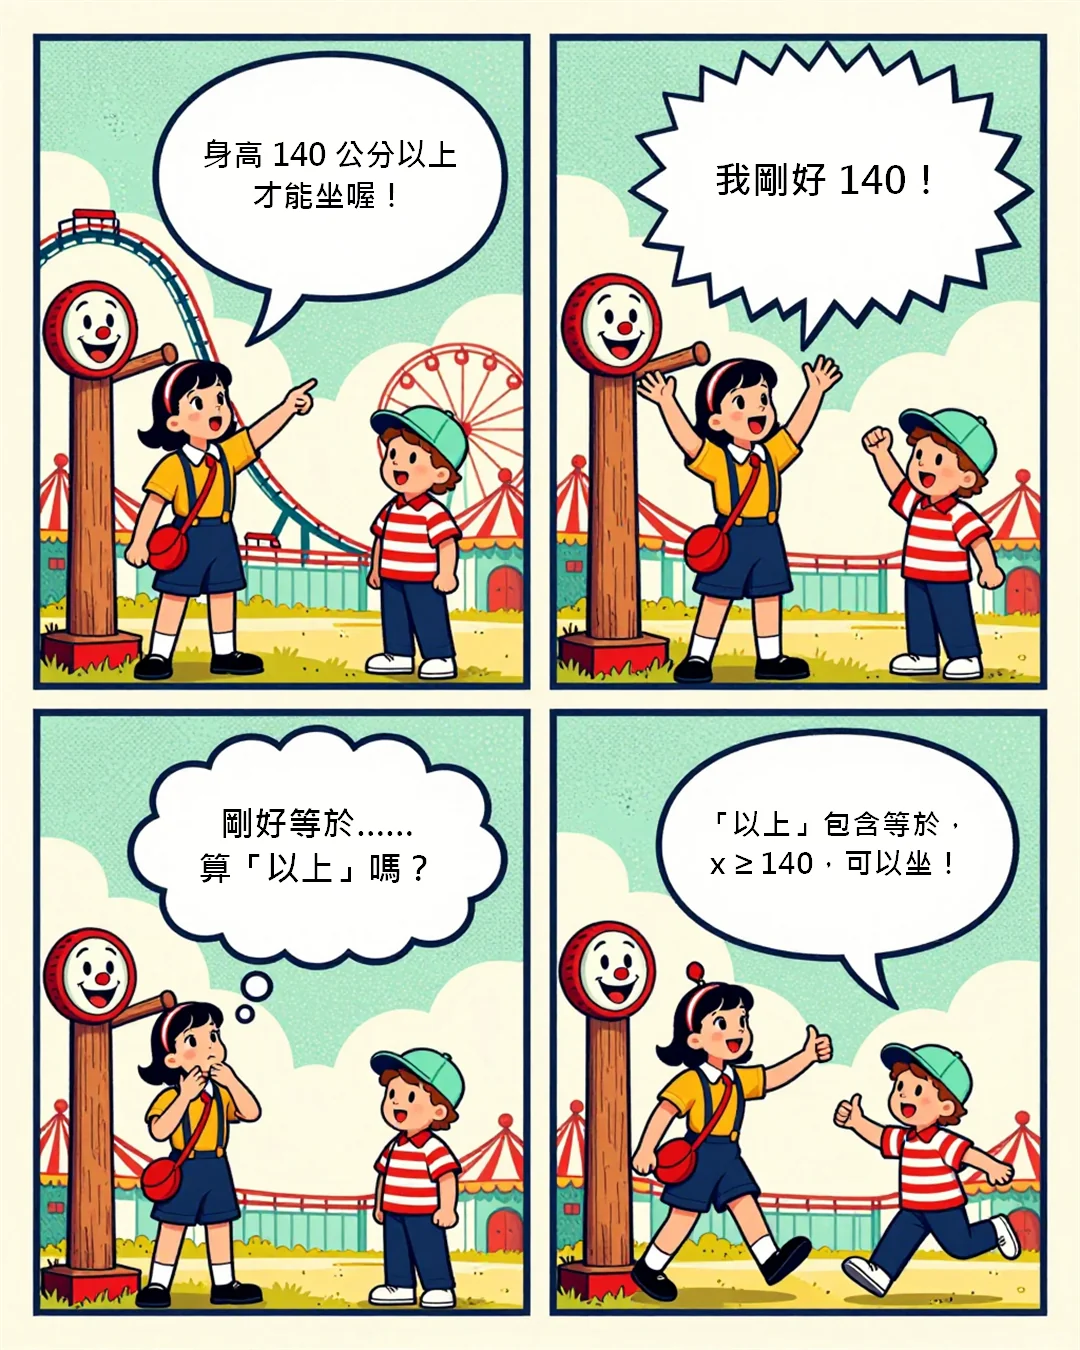
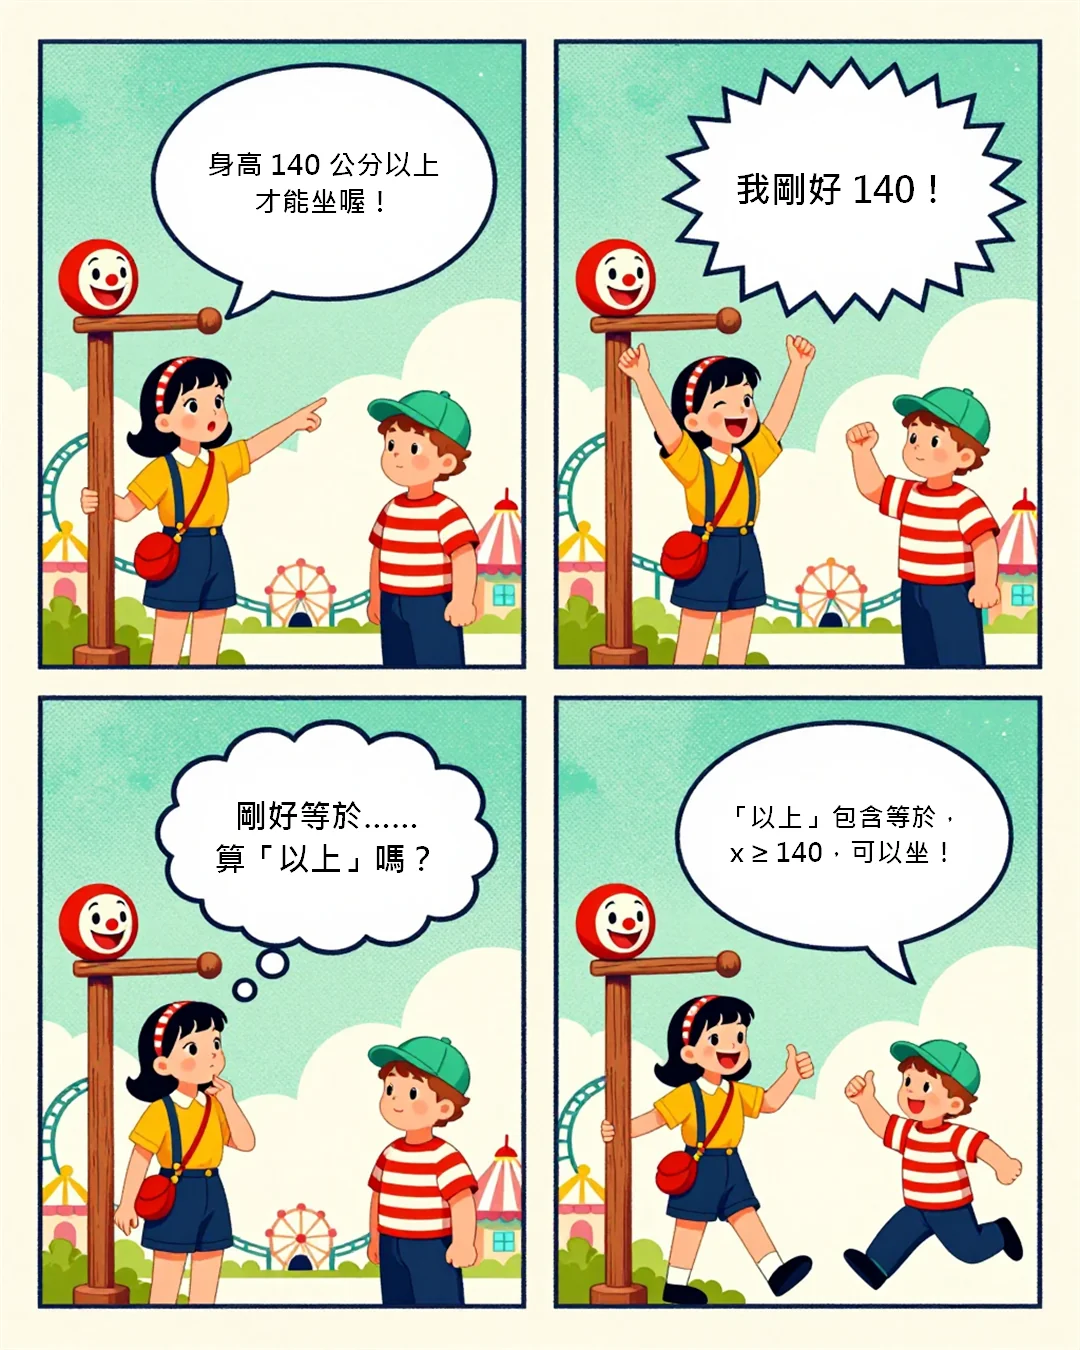
fix: 2-4-1 修正漫畫與兩張插圖的畫面細節
- 暖身漫畫重生：第 4 格的小丑立牌原本少了橫桿，與前三格不一致；新版四格立牌完全相同，第 2 格頭頂更貼近橫桿
- 爆米花插圖改成打開零錢包，取代不自然的手捏硬幣
- 套圈圈插圖的圈改成有厚度的手掌大小，取代平面的圓線與過大的游泳圈
- 三張圖的 alt 依新畫面改寫，導言配合漫畫調整一句
- agents.md：新增「漫畫道具外形要逐格比對」與三則 Z-Image 提示規則（同一道具只寫一次、尺寸用身體部位定、剛好碰到的高度綁在角色身上），擴充量泡的白色門檻

diff --git a/materials/2-4-1/index.html b/materials/2-4-1/index.html
@@ -65,10 +65,10 @@
         </h2>
         <div style="display: flex; flex-direction: column; align-items: center; gap: 1.5rem;">
           <p style="color: #cbd5e1; font-size: 1.05rem; line-height: 1.6; text-align: center; max-width: 800px; margin: 0 auto;">
-            雲霄飛車門口的小丑立牌規定：<strong style="color:#fda4af">身高 \(140\) 公分以上才能搭乘</strong>。小晴走到立牌旁一站，頭頂剛好和小丑伸出的橫桿一樣高——不多不少，<strong style="color:#fda4af">剛好 \(140\)</strong>。她高興地歡呼，下一秒卻愣住了：「剛好等於，到底算不算『以上』？」旁邊的阿哲倒是很有把握。這一節的第一件事，就是替這種「剛好卡在界線上」的情形立下規則。
+            雲霄飛車門口的小丑立牌規定：<strong style="color:#fda4af">身高 \(140\) 公分以上才能搭乘</strong>。小晴走到立牌旁一站，頭頂剛好卡在小丑伸出的橫桿正下方——不多不少，<strong style="color:#fda4af">剛好 \(140\)</strong>。她高興地歡呼，下一秒卻愣住了：「剛好等於，到底算不算『以上』？」旁邊的阿哲倒是很有把握。這一節的第一件事，就是替這種「剛好卡在界線上」的情形立下規則。
           </p>
           <div class="illustration-container" style="max-width: 600px; width: 100%; border: 1px solid rgba(255,255,255,0.08); box-shadow: 0 8px 32px rgba(0,0,0,0.4); border-radius: 20px; overflow: hidden; background: rgba(15, 23, 42, 0.4);">
-            <img src="motivation_comic.webp" alt="復古遊樂園海報風四格漫畫，網版印刷質感，四格都是同一個雲霄飛車入口：入口旁立著一根木頭柱子，柱子頂端是圓形的笑臉小丑頭，柱子上伸出一根短短的木頭橫桿，背景有雲霄飛車軌道、摩天輪與紅白條紋帳篷。黑色齊肩短髮、戴紅白條紋髮箍、穿芥末黃上衣和深藍吊帶短褲、斜背紅色圓形零錢包的少女站在立牌旁，棕色短捲髮、戴薄荷綠棒球帽、穿紅白橫條紋上衣和深藍長褲的少年站在右邊。第一格，少女一手指著遠方，對白：「身高 140 公分以上才能坐喔！」第二格，少女站在立牌旁，頭頂和橫桿一樣高，高舉雙手大喊：「我剛好 140！」第三格，少女摸著下巴一臉疑惑，心想：「剛好等於……算『以上』嗎？」第四格，少女笑著比讚往前走，少年也比讚跑向入口，說：「『以上』包含等於，x ≥ 140，可以坐！」" style="width: 100%; height: auto; display: block; transition: transform 0.3s;" class="comic-img">
+            <img src="motivation_comic.webp" alt="復古遊樂園海報風四格漫畫，網版印刷質感，四格都是同一個遊樂園入口，天空是帶網點的薄荷綠：畫面左邊立著一根木頭柱子，柱子頂端是圓形的紅色笑臉小丑頭，小丑頭正下方伸出一根往右的短木頭橫桿，末端是一顆木頭圓球，四格的立牌完全相同，背景有雲霄飛車軌道、摩天輪與帳篷。黑色齊肩短髮、戴紅白條紋髮箍、穿芥末黃上衣和深藍吊帶短褲、斜背紅色圓形零錢包的少女站在柱子旁，棕色短捲髮、戴薄荷綠棒球帽、穿紅白橫條紋上衣和深藍長褲的少年站在右邊。第一格，少女一手扶著柱子、一手指著遠方，對白：「身高 140 公分以上才能坐喔！」第二格，少女背貼著柱子站在橫桿正下方，高舉雙拳大喊：「我剛好 140！」少年也舉起拳頭替她加油。第三格，少女摸著下巴一臉疑惑，心想：「剛好等於……算『以上』嗎？」第四格，少女一手扶著柱子、笑著比讚往前走，少年也比讚跑向右邊，說：「『以上』包含等於，x ≥ 140，可以坐！」" style="width: 100%; height: auto; display: block; transition: transform 0.3s;" class="comic-img">
           </div>
         </div>
       </section>
@@ -467,7 +467,7 @@
             </div>
 
             <div class="illustration-container">
-              <img src="ineq_popcorn.webp" alt="復古遊樂園海報風插圖，網版印刷質感：黑色齊肩短髮、戴紅白條紋髮箍、穿芥末黃上衣和深藍吊帶短褲、斜背紅色圓形零錢包的少女站在紅白條紋的爆米花推車旁，低頭看著掌心裡的幾枚硬幣，一臉為難；棕色短捲髮、戴薄荷綠棒球帽、穿紅白橫條紋上衣和深藍長褲的少年站在右邊，雙手捧著一個裝滿爆米花的紅白條紋紙筒。背景有摩天輪和旋轉木馬。" class="illustration" loading="lazy">
+              <img src="ineq_popcorn.webp" alt="復古遊樂園海報風插圖，網版印刷質感：黑色齊肩短髮、戴紅白條紋髮箍、穿芥末黃上衣和深藍吊帶短褲、斜背紅色圓形零錢包的少女站在紅白條紋的爆米花推車旁，把零錢包拉到胸前，雙手正在打開扣環，皺著眉一臉為難；棕色短捲髮、戴薄荷綠棒球帽、穿紅白橫條紋上衣和深藍長褲的少年站在右邊，雙手捧著一個裝滿爆米花的紅白條紋紙筒，轉頭看著她。背景有摩天輪和紅白條紋帳篷。" class="illustration" loading="lazy">
             </div>
           </div>
 
@@ -723,7 +723,7 @@
             </div>
 
             <div class="illustration-container">
-              <img src="ineq_rings.webp" alt="復古遊樂園海報風插圖，網版印刷質感：套圈圈遊戲攤的木頭檯面上，五個綠色玻璃瓶排成一列。黑色齊肩短髮、戴紅白條紋髮箍、穿芥末黃上衣和深藍吊帶短褲、斜背紅色圓形零錢包的少女舉起手，正要丟出一個紅色的圈；棕色短捲髮、戴薄荷綠棒球帽、穿紅白橫條紋上衣和深藍長褲的少年站在右邊，手裡拿著兩個薄荷綠色的圈。背景有摩天輪、旋轉木馬和紅白條紋帳篷。" class="illustration" loading="lazy">
+              <img src="ineq_rings.webp" alt="復古遊樂園海報風插圖，網版印刷質感：套圈圈遊戲攤前，木頭檯面上排著五個綠色玻璃瓶。黑色齊肩短髮、戴紅白條紋髮箍、穿芥末黃上衣和深藍吊帶短褲、斜背紅色圓形零錢包的少女，用手指捏著一個手掌大小的紅色塑膠圈舉在臉旁，準備丟出去；棕色短捲髮、反戴薄荷綠棒球帽、穿紅白橫條紋上衣和深藍長褲的少年站在右邊，一手拿著一個薄荷綠色的小塑膠圈端詳，另一手托著兩個疊在一起的綠色小圈。背景有摩天輪、旋轉木馬和紅白條紋帳篷。" class="illustration" loading="lazy">
             </div>
           </div>
 

diff --git a/agents.md b/agents.md
@@ -61,7 +61,7 @@
 
 - [x] 階段三十二：`2-3-2` 的 10 張插圖與暖身漫畫改用 16GB 桌機的 **Z-Image Turbo 完整版（bf16）** 重生，畫面設計沿用上一輪（上一輪是 8GB 筆電的 int8 量化版）。3 輪共 76 張候選；卡最久的兩張是 `prop_pour`（前兩輪 8 張都把倒漆的人畫成少年，改寫成「畫面左半邊／右半邊」才對）與 `prop_loop`（改寫成「兩段直線接兩個半圓」才畫出完整橢圓軌道）。7 段 alt 依新畫面改寫並從瀏覽器讀回核對。提示詞與每輪 seed 收在 `comfyui/2-3-2/`（不進 repo）
 
-- [x] 階段三十三：`2-4-1`「認識一元一次不等式」建置完成（第二冊第 4 章開篇，畫風換成**復古遊樂園海報**——模型工坊已連用兩節）。依〈開發約束 26〉從康軒 1 下 PDF 抽骨架（2 個主題、5 個例題、1 個 Key point、1 張習慣用語對照表、5 題自我檢核、5 大題自我評量＋挑錯題、2 題會考）推導出 **8 個重點**——「\(\ge\)、\(\le\) 的意義」與「一元一次不等式的定義」分兩格（一個判斷真假、一個分類，學生分別出錯）；「範圍內的整數解」課本沒有例題、只佔自我檢核一題，併進兩個不等號的圖示，**留給 4-2 獨立成格**。畫風依〈開發約束 32〉數情境詞：買 11、票 11（4-2 更是買 84、票 32），主軸「買票與預算」，**4-1、4-2 兩節共用**同一組角色（小晴、阿哲）。8 互動、16 題，正解 **A4 B4 C4 D4**。驗收：**20,699 項**邏輯檢查（每個狀態獨立重算）零異常；414px 與 1280px 兩檔靜態內容加 128 個極端狀態，四類容器零溢出；撞題掃描只抓到一處脈絡不相干的 125（改成 132）。生圖走本機 Z-Image Turbo，插圖 8 張、漫畫 1 張：「頭頂剛好碰到橫桿」兩輪才勉強過（仍隔約 7px，alt 不宣稱碰到），「頭頂夾在兩根橫桿之間」兩輪 10 張全失敗，依〈開發約束 35〉退回純情境圖。提示詞、seed、API 工作流程與送件腳本收在 `comfyui/2-4-1/`
+- [x] 階段三十三：`2-4-1`「認識一元一次不等式」建置完成（第二冊第 4 章開篇，畫風換成**復古遊樂園海報**——模型工坊已連用兩節）。依〈開發約束 26〉從康軒 1 下 PDF 抽骨架（2 個主題、5 個例題、1 個 Key point、1 張習慣用語對照表、5 題自我檢核、5 大題自我評量＋挑錯題、2 題會考）推導出 **8 個重點**——「\(\ge\)、\(\le\) 的意義」與「一元一次不等式的定義」分兩格（一個判斷真假、一個分類，學生分別出錯）；「範圍內的整數解」課本沒有例題、只佔自我檢核一題，併進兩個不等號的圖示，**留給 4-2 獨立成格**。畫風依〈開發約束 32〉數情境詞：買 11、票 11（4-2 更是買 84、票 32），主軸「買票與預算」，**4-1、4-2 兩節共用**同一組角色（小晴、阿哲）。8 互動、16 題，正解 **A4 B4 C4 D4**。驗收：**20,699 項**邏輯檢查（每個狀態獨立重算）零異常；414px 與 1280px 兩檔靜態內容加 128 個極端狀態，四類容器零溢出；撞題掃描只抓到一處脈絡不相干的 125（改成 132）。生圖走本機 Z-Image Turbo，插圖 8 張、漫畫 1 張：「頭頂剛好碰到橫桿」兩輪才勉強過（仍隔約 7px，alt 不宣稱碰到），「頭頂夾在兩根橫桿之間」兩輪 10 張全失敗，依〈開發約束 35〉退回純情境圖。提示詞、seed、API 工作流程與送件腳本收在 `comfyui/2-4-1/`。**同日依使用者回饋修三處**：暖身漫畫第 4 格的小丑立牌少了橫桿（整張重生，四格立牌一致）、爆米花插圖的手捏硬幣不自然（改成打開零錢包）、套圈圈的圈不立體又被畫得比瓶子大（改成手掌大小的厚圈）
 
 > 目前課程進度：58 節中 `1-1-1`、`1-1-2`、`1-1-3`、`1-1-4`、`1-2-1`、`1-2-2`、`1-2-3`、`1-2-4`、`1-3-1`、`1-3-2`、`1-3-3`（第一冊全冊）、`2-1-1`、`2-1-2`、`2-1-3`（第二冊第 1 章全章）、`2-2-1`、`2-2-2`（第二冊第 2 章全章）、`2-3-1`、`2-3-2`（第二冊第 3 章全章）、`2-4-1`（第二冊第 4 章開篇）完成，其餘 38 節為佔位頁。
 
@@ -140,7 +140,7 @@ teaching-web/
 - 瀏覽器分頁未在前景時渲染會被節流，大量 canvas 迴圈驗證會逾時；先把分頁切到前景，且單批控制在 100 組參數以內
 - **用 `subprocess` 接外部指令（生圖腳本等）的輸出時不要直接 `print`**：Windows 主控台是 cp950，子行程輸出只要含一個對應不到的字元就丟 `UnicodeEncodeError`，**整批工作會停在第一個項目**。用 `errors="replace"` 收下來還不夠——那個 `\ufffd` 自己也印不出去；要 `msg.encode("ascii", "replace").decode("ascii")` 再印。這是既有 cp950 那條（讀 stdin）的另一半
 - **`print` 出去的字串本身也不能含非 cp950 字元**：`✓`、`✗`、`→` 這類符號在 Windows 主控台直接丟 `UnicodeEncodeError`，而且**是整支腳本中止**——若那行 `print` 排在實際動作前面，會出現「訊息印到一半、檔案卻沒被改」的假象，容易誤判成程式沒生效而重跑一次。驗證訊息一律只用 ASCII。這是 cp950 那兩條（讀 stdin、接 subprocess 輸出）的第三半
-- **量對話泡內緣的「白色」不可以三個通道共用一個門檻**：暖色調底圖的泡內部實測是 `(254, 247, 233)`，藍色通道只有 233，用 `>= 243` 會一個泡都找不到（看起來像量測程式壞掉）。分通道給門檻，實測 `r>=240, g>=234, b>=218` 可用（不同批候選的泡會差幾階，`2-2-1` 那批是 `(248, 237, 218)`，門檻要放寬到 `b>=208` 才抓得到）。**另外，`-fit letterbox` 補上的白邊也是亮色**，會被連通區域當成「最大的亮區」，量出來變成 90×675 的兩條長條；掃描前要先把左右各 90px 的補白排除掉
+- **量對話泡內緣的「白色」不可以三個通道共用一個門檻**：暖色調底圖的泡內部實測是 `(254, 247, 233)`，藍色通道只有 233，用 `>= 243` 會一個泡都找不到（看起來像量測程式壞掉）。分通道給門檻，實測 `r>=240, g>=234, b>=218` 可用（不同批候選的泡會差幾階，`2-2-1` 那批是 `(248, 237, 218)`，門檻要放寬到 `b>=208` 才抓得到）。**反過來，泡旁邊有淺色的雲時要收緊**：`2-4-1` 重生的漫畫第 3、4 格，泡的白色跟雲連成一塊，量出來是整格 539×674；卡到 `r>=250, g>=250, b>=246` 才分得開。**另外，`-fit letterbox` 補上的白邊也是亮色**，會被連通區域當成「最大的亮區」，量出來變成 90×675 的兩條長條；掃描前要先把左右各 90px 的補白排除掉
 - **量到的泡外框要先剔除尾巴再用**：連通區域會把泡的尾巴、思考泡的小圓一起算進 bbox，高度多出三到五成，`bubbles.json` 照抄會讓文字重心被拉到泡的下緣。作法是只留「寬度達本體最寬 40% 以上、且與最寬那一列相連」的區段，再取外框
 - **把教材頁改吃 `materials/math-canvas.js` 前，要逐符號比對「整個 canvas.js」，不能只比第 2 節**：`1-3-2` 另有一份 `drawEqPanel`／`eqLine` 定義在第 3 節前面，只掃第 2 節會漏掉，接上共用檔後就變成重複宣告。作法是把兩邊的頂層 `function`／`const` 各自抓出來做逐字比對，**逐個符號**分成「完全相同／有差異／本頁獨有」三類。相同的才刪；有差異的要先看清楚差在哪，只有在「共用版是嚴格超集或更保守」時才能換掉（實例：`roundRect` 的 `Math.abs(w)` 只在 w 為負時才有差、`gcd` 的 `a || 1` 只在 gcd(0,0) 才有差、`1-2-4` 的 `measure`／`drawIt` 少了本頁用不到的 `seq` 與斜體分支），並實測那個分歧路徑真的走不到（可以覆寫該函式記錄實際傳入的參數）。刪完記得順手清掉描述那些工具的孤兒註解。**反方向（把幾頁重複的工具抽進共用檔）走同一套逐符號比對**，但多兩件事要先做：一是**掃過整個 `materials/` 樹**確認沒有別頁宣告同名符號（共用檔是每頁都載的，撞名就整頁掛掉）；二是**各節的主題配色不要抽**——`C_INK` 這類是每一節自己的調色盤，而且 `1-3-1`～`1-3-3` 也各自宣告了 `C_SKY`／`C_EMBER`，搬進共用檔會變成重複宣告，未來想換色的節也綁死了。共用函式需要顏色一律由呼叫端傳入（`drawStepRows` 的 `opts.color` 即是），值剛好等於共用檔既有常數的才可以直接換（`C_SLATE` 與 `INK` 同為 `#cbd5e1`，換掉逐像素相同）
 - **共用檔跟頁面撞名、但兩邊語意本來就不同時，改名頁面那一份，不要硬併**：`1-2-3` 的項是平面的 `{ frac }`／`{ txt }`，跟共用檔的遞迴元件（`T`／`VF`／`FR`）不相容，硬轉會動到每一條算式的外觀；把頁面的 `exprWidth`／`drawExpr` 改名成 `termsWidth`／`drawTerms` 就好。**改名前一定要全檔搜過新名字，含函式內部的巢狀宣告**——第一輪把 `drawExpr` 改成 `drawRow`，而 `initEquivCanvas` 裡本來就有一個巢狀的 `drawRow`，它呼叫全域版時變成呼叫自己，整頁 `Maximum call stack size exceeded`。頂層宣告掃描看不到巢狀的那一份
@@ -178,6 +178,7 @@ teaching-web/
 - **用 ComfyUI 生圖時，提示詞與每輪的 seed 一律存進 `comfyui/<節>/`**（已在 `.gitignore`，靠雲端硬碟跨機）：2026-09-11 那輪的插圖提示詞只放在 session 的暫存資料夾，候選 PNG 的 metadata 又只留在那台電腦的 ComfyUI output，換到另一台重生時兩者都拿不到，只能從 alt 反推重寫。漫畫救得回來，是因為 `_raw.png` 放在雲端硬碟的 `teaching-comic/output/`——PNG 的 `prompt` 區塊就是整份工作流程。每輪記下 seed、改了什麼、為什麼沒過，下一輪才不會重踩
 - **撞題掃描（〈開發約束 29〉第五種形式）要比對原始 HTML，不要比對排版後的 `textContent`**：MathJax 排版完之後，`\(x \ge 3\)` 在 DOM 裡已經變成一堆字符盒，拿 LaTeX 片段去搜 `textContent` 永遠搜不到，會回報一片乾淨。作法是 `fetch(location.href, { cache: 'no-store' })` 抓回原始 HTML、`DOMParser` 解析，再拿每題題幹與正解選項裡的 `\( … \)` 片段，去搜 `.explanation-card`／`.interactive-card`／`.summary-card` 的原文（只比對含 3 個以上英數字的片段，否則單一數字會滿地命中）
 - **ComfyUI 候選圖的奶油色邊框偶爾會長出淡色的浮水印狀字跡**（`2-4-1` 的 `ineq_popcorn` s101 右下角）：縮到 220px 看不見，但選定前要把四個角落放大看過。要用邊框底色蓋掉時，先把覆蓋範圍裁切放大確認——第一次蓋的矩形切進角色褲管約 5px，得拆成「褲管下方一整條＋褲管右側一小塊」兩塊蓋
+- **Z-Image 提示裡，同一件道具只能寫一次**：角色設定寫「斜背紅色圓形零錢包」、場景又寫「雙手捧著零錢包」，`2-4-1` 6 張候選全部畫出兩個包（一個捧在手上、一個還掛在背帶上）。場景要動到某件隨身道具時，那張改用拿掉該道具的角色設定（`comfyui/2-4-1/illustrations.json` 的 `characters_no_purse`），並在場景寫明「身上只有一個」。**尺寸不要用比喻，用身體部位定**：「像小游泳圈一樣有厚度」讓套圈圈的圈比瓶子還大，改成「直徑約一個手掌寬、比瓶身窄、只套得進瓶頸」才縮回夜市的尺寸。**要角色「剛好碰到」某個高度時，把道具高度綁在角色身上**：只寫「頭頂碰到橫桿」時柱子被畫得很高、間隙 70～130px，補上「柱子不高，橫桿剛好和少女頭頂一樣高」後縮到約 40px，但仍碰不到——這種「剛好」的幾何別期待一次到位，旁白與 alt 要照實寫
 
 ## 開發約束
 
@@ -248,6 +249,7 @@ teaching-web/
 - **畫面要表現「尺寸變化」時，生圖提示要把每一格的相對尺寸寫死**：只說「摺了幾次」模型會畫成同尺寸的紙疊，面積不會跟著變小。要逐格寫明（例：第 2 格是原張的四分之一面積、第 3 格只有巴掌大但明顯變厚、第 4 格兩者並排對比），數學上的比例才會出現在畫面上
 - **`normalize_comic.ps1` 與 `add_captions_json.ps1` 覆蓋既有輸出要加 `-Force`**：重生原圖後沿用同一個檔名會被擋下來
 - **不要用 gpt-image-2 的遮罩改圖（`--mask`）做局部修圖**：實測會無視遮罩把整張重畫，四格結構全毀；要改一個小物件也一律整張重生，並在同一次呼叫多生幾張候選挑選
+- **挑漫畫候選時，道具的外形也要逐格比對，不能只數數量**：`2-4-1` 第一版漫畫第 4 格的小丑立牌少了往右伸出的橫桿（少女站的位置正好佔住它），上線後才被使用者抓到。想從第 3 格搬移補上時，能露出的空間只剩約 17px（頁面上約 9px），最後整張重生。提示裡要寫死「四格的某道具完全一模一樣、每一格都看得到」，並把會擋住它的角色位置一起寫開（例：「第 4 格少女已經離開柱子，走到畫面中間偏右」）
 - **挑漫畫候選時要逐格數同一種物件的數量，四格必須一致**：`2-2-2` 的候選 2 泡的內緣每個都比候選 1 大 5～20%，照「挑泡最大的那張」會選它——但它第 2、3 格是 3 支旗、第 4 格卻長成 5 支，而第 4 格的旁白正是「兩支旗就畫得出整條線」，畫面與結論互相打架。**先數物件、再比泡的大小**；泡只要都過了下限（一般 240×110、`shout` 300×150）就不是挑選依據
 - **不要把不同候選圖的格子拼在一起**：`1-3-2` 試過拿 A 圖的第 1 格配 B 圖的第 3 格，接縫雖然落在黑框上，但**背景、光線、道具外觀、角色比例全都對不上**，一眼就看得出來，課堂上比數量錯更礙眼。四格必須來自**同一次生成**，某一格不合格就整張重生
 - **漫畫裡要數的物件數量不要超過 9**：gpt-image-2 畫「14 個砝碼」實測連跑六輪 24 張沒有一張對過（畫成 10、11、15、18 都有），9 以內才穩。**課本的數字太大時，改用同構的小數字**——`1-3-2` 把 \(3x+5=14\) 改成 \(2x+3=9\)（結論同樣是 \(x=3\)），四格數量一次到位，再由頁面導言補一句「課本的 \(3x+5=14\) 是同一回事」把兩者接起來
